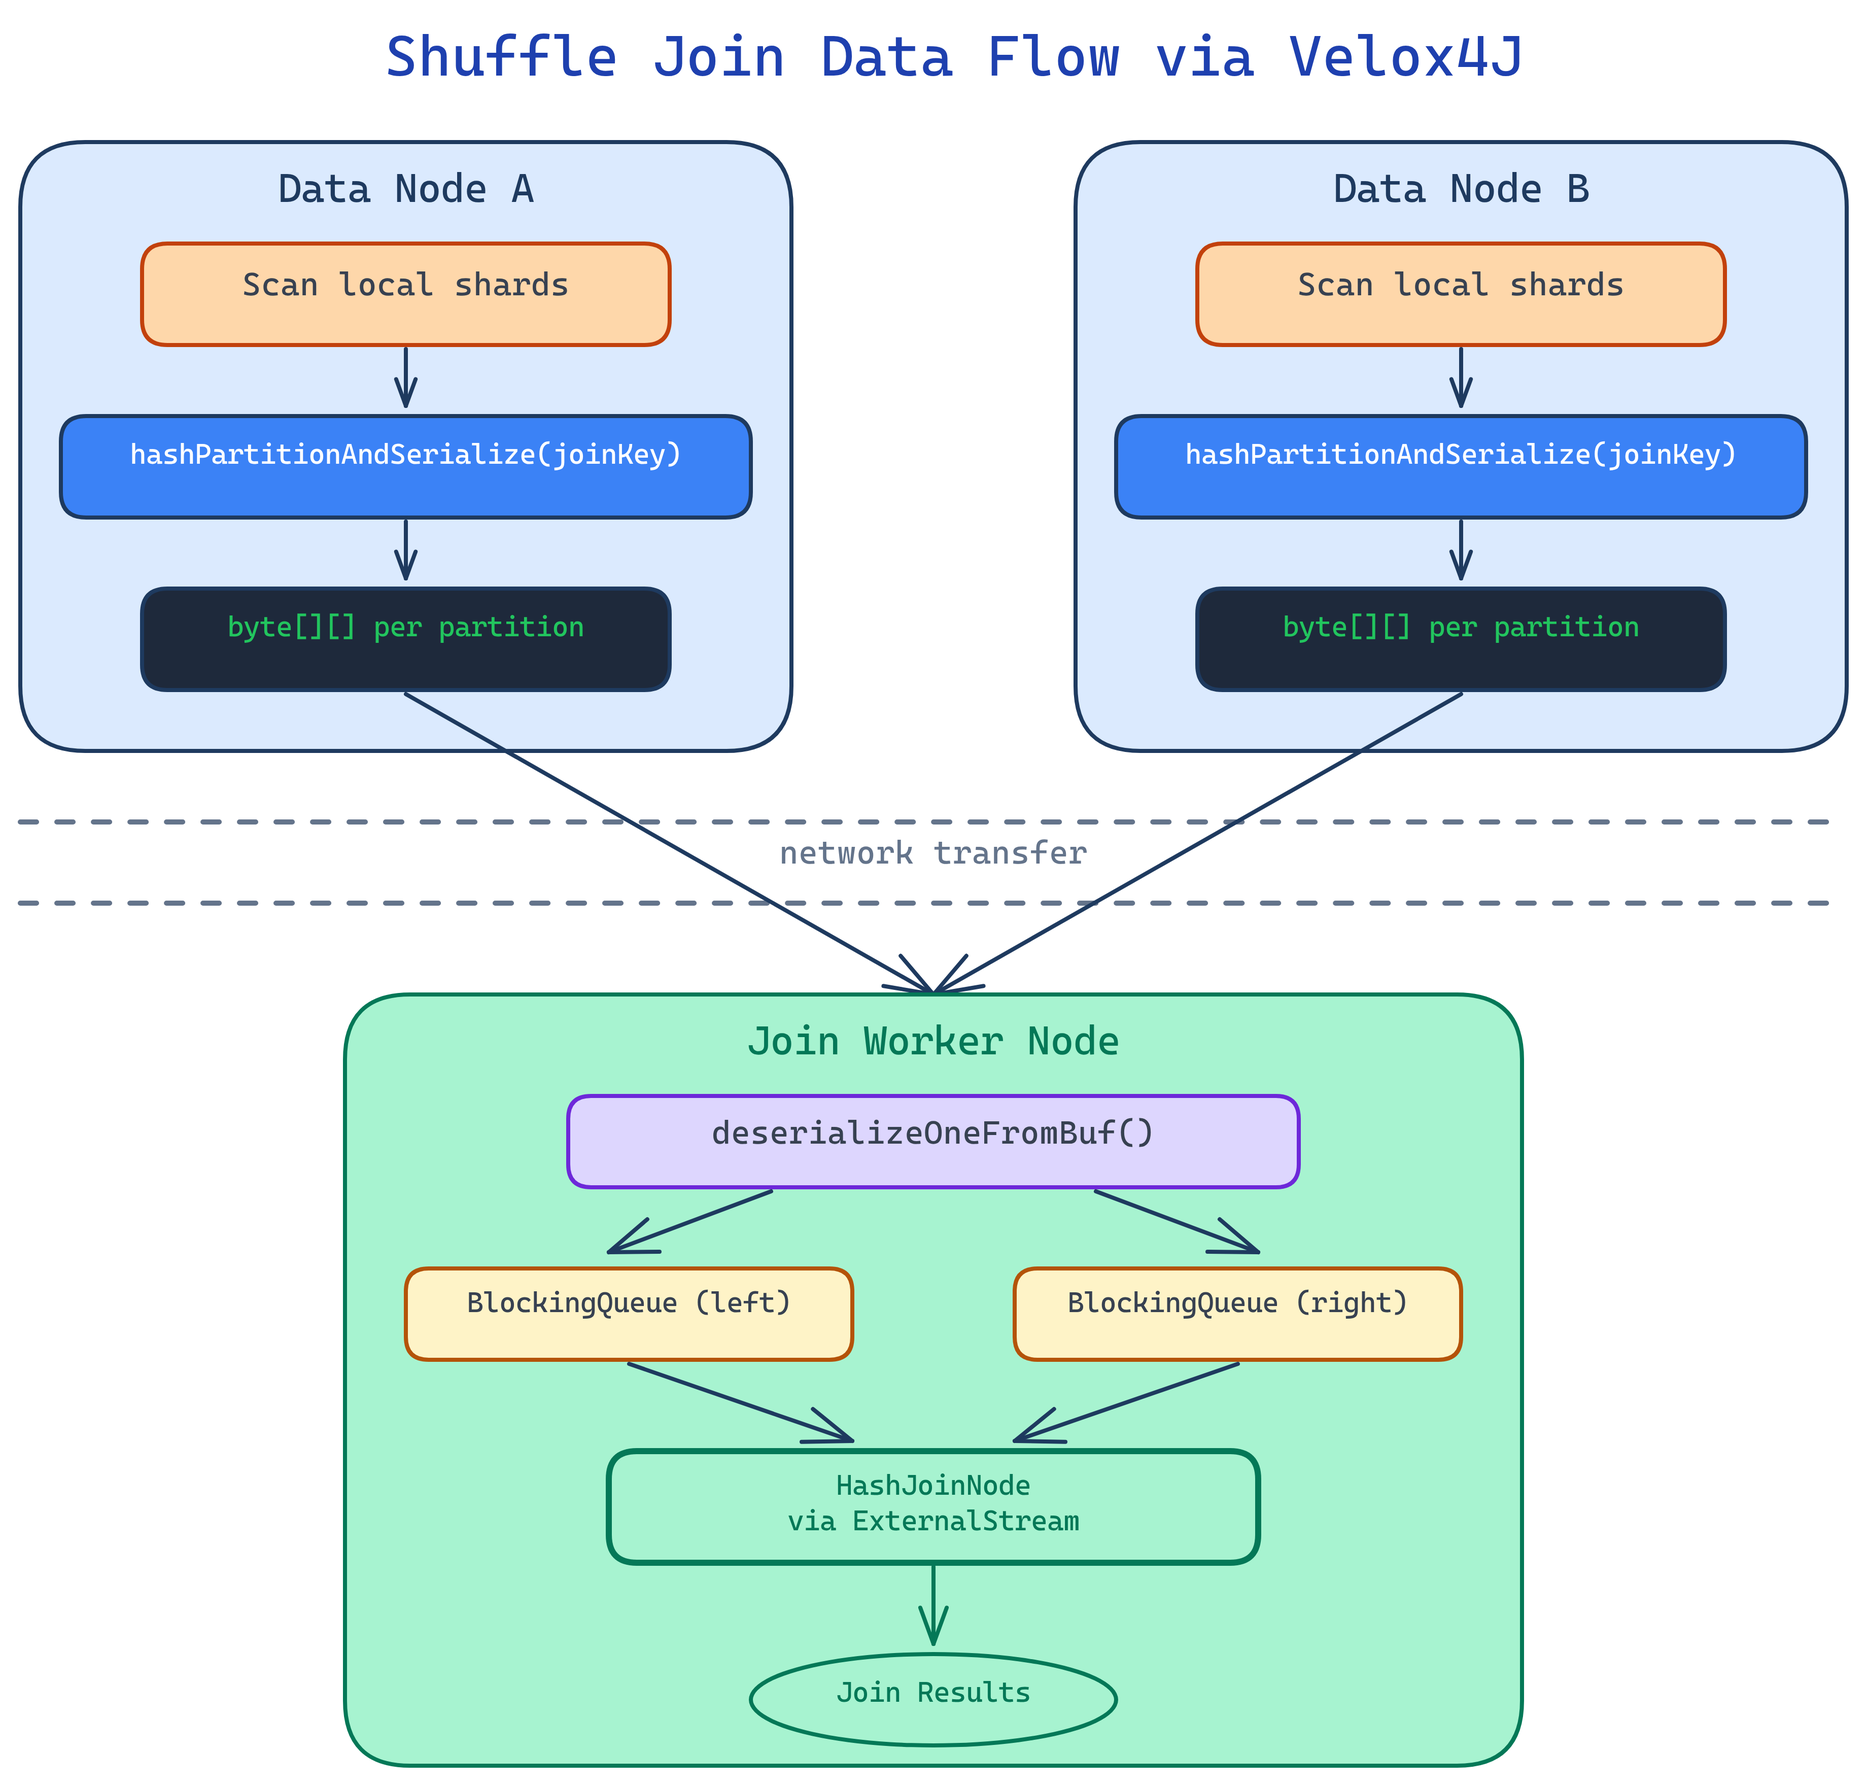
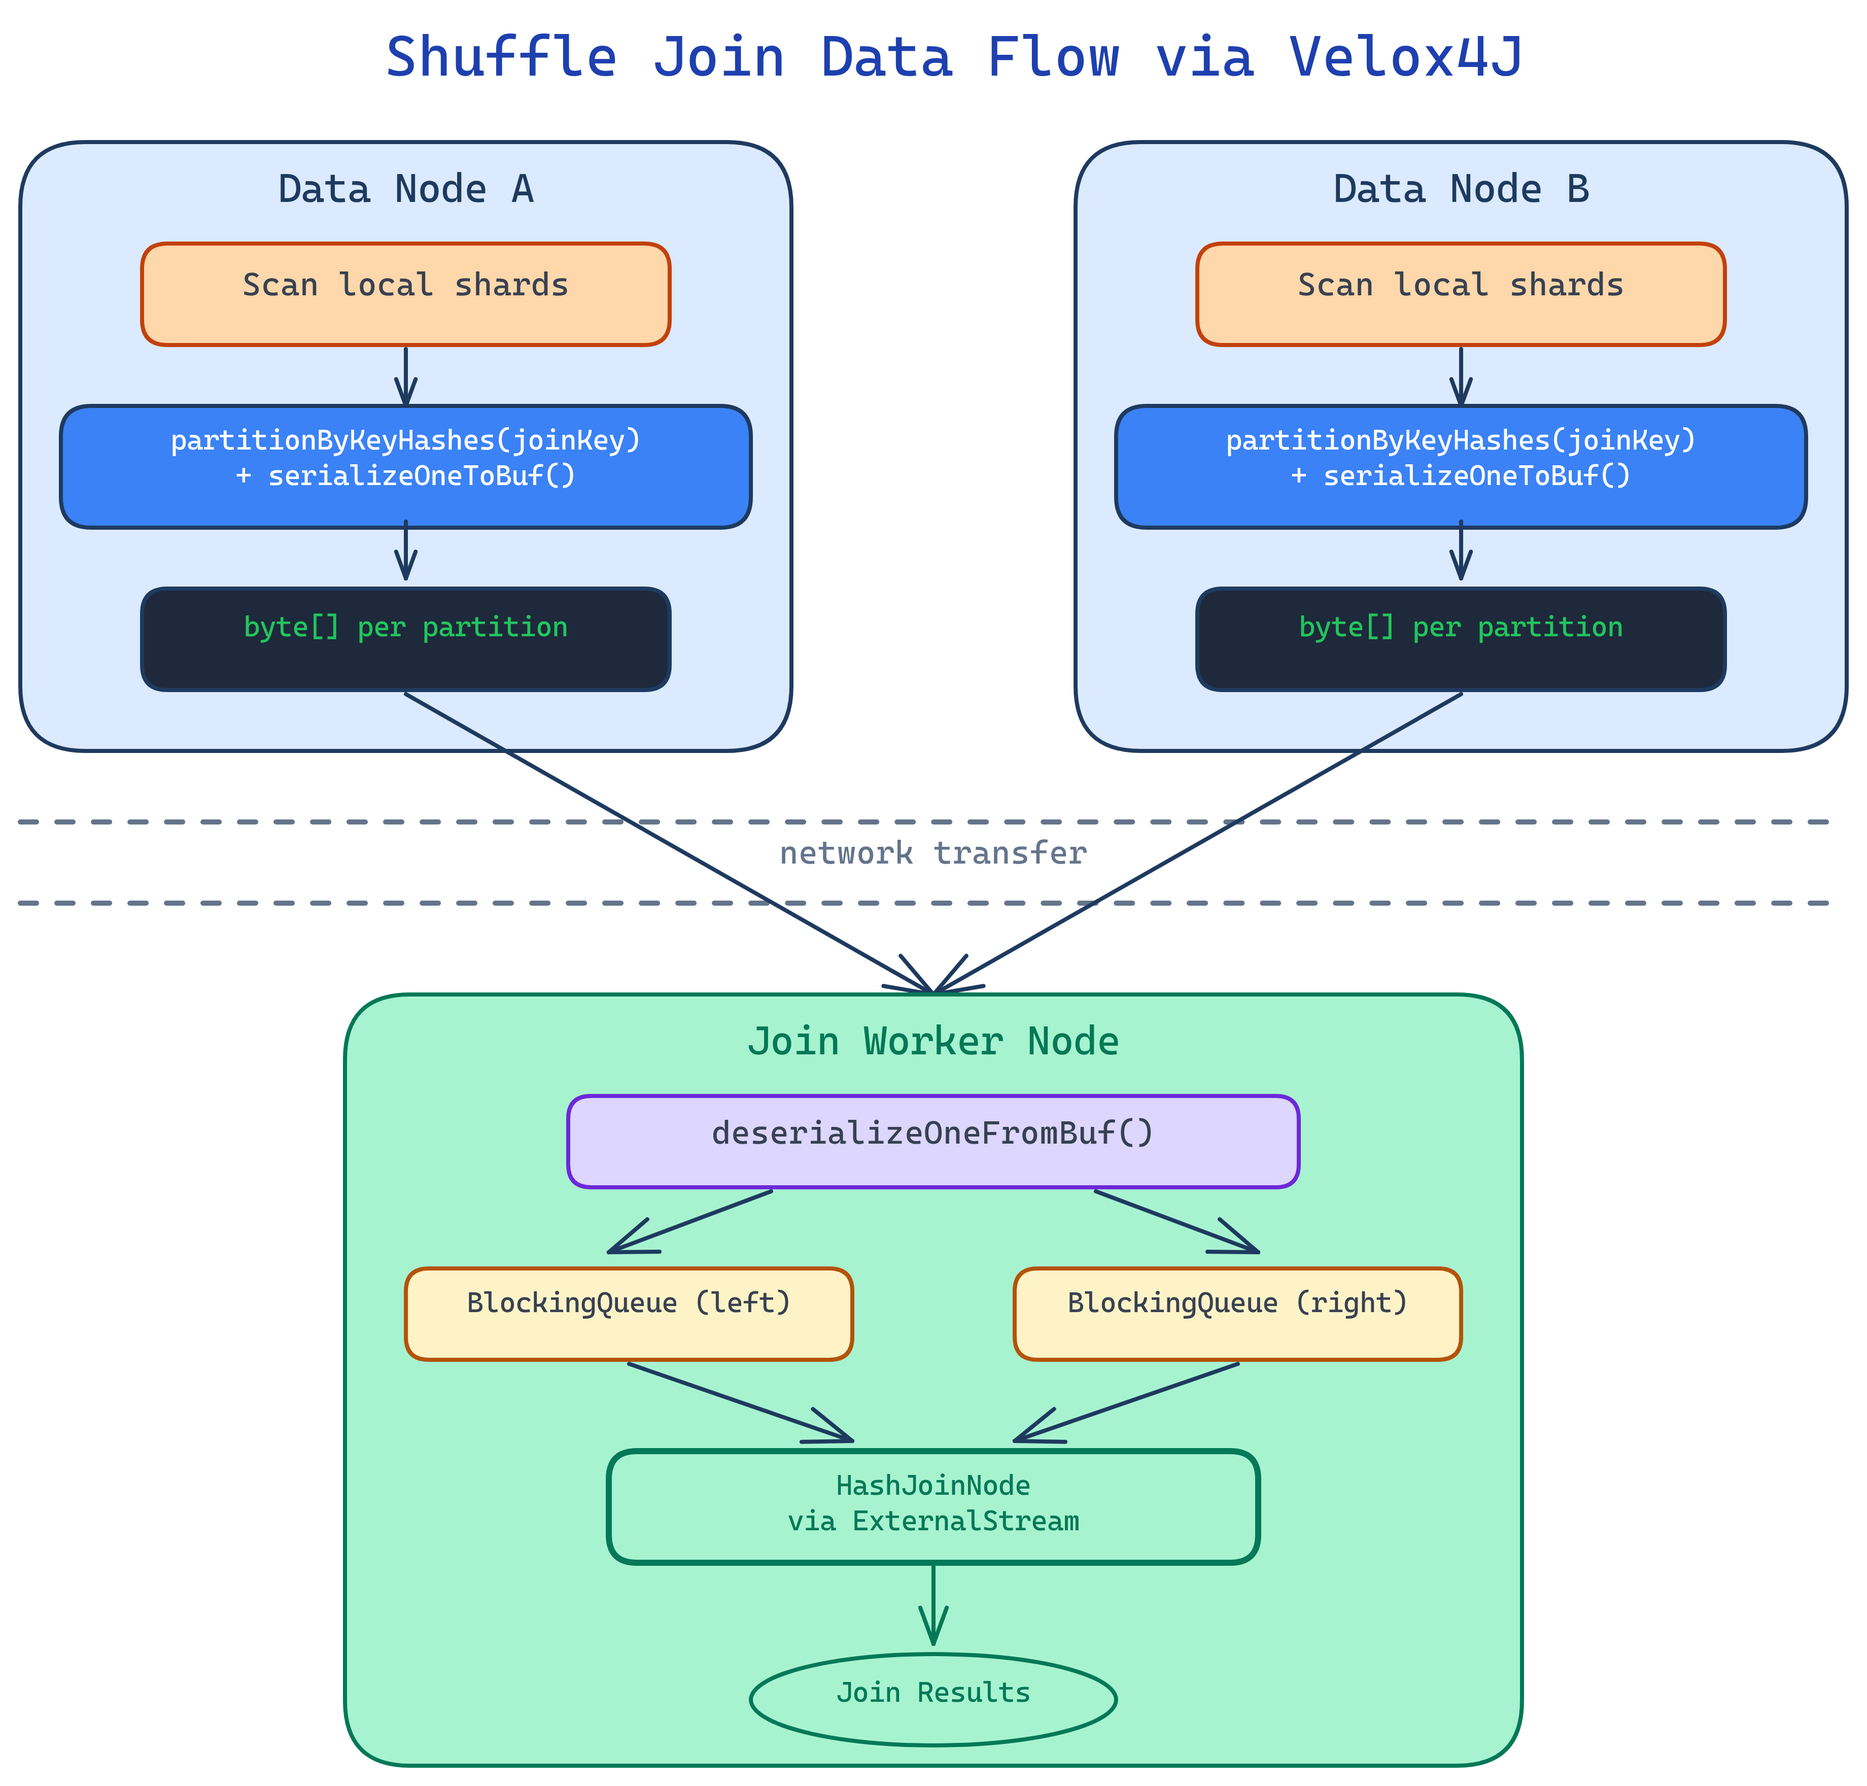
simplify the shuffle-join-flow

diff --git a/docs/lesson-12-joins-and-distribution.md b/docs/lesson-12-joins-and-distribution.md
@@ -10,7 +10,7 @@ After this lesson you should be able to:
 - Describe the full Velox distributed shuffle architecture: PartitionedOutput → OutputBufferManager → ExchangeClient → Exchange
 - Explain why Velox4J cannot support Exchange/PartitionedOutput and how frameworks like Gluten-Flink work around this
 - Design a distributed join strategy using Velox4J as the local execution engine
-- Use `hashPartition()` and `hashPartitionAndSerialize()` for consistent shuffle partitioning
+- Use `partitionByKeyHashes()` for consistent shuffle partitioning
 - Understand lazy vector materialization and when to flatten before serialization
 - Use `LocalPartitionNode` for in-process repartitioning within a Velox plan tree
 
@@ -733,57 +733,55 @@ A key requirement for distributed shuffle is that the **same key always maps to 
 | API | Algorithm | Cross-node consistent? | Use case |
 |-----|-----------|----------------------|----------|
 | `partitionByKeys()` | Hive `PartitionIdGenerator` (discovery-based) | **No** — assigns sequential IDs as it discovers distinct values | Local grouping (e.g., writing to Hive partitions) |
-| `hashPartition()` | Velox `HashPartitionFunction` (hash-based) | **Yes** — deterministic hash of key values | Distributed shuffle |
+| `partitionByKeyHashes()` | Velox `HashPartitionFunction` (hash-based) | **Yes** — deterministic hash of key values | Distributed shuffle |
 
 ```java
 // Hash-partition by join key column (index 2) into 4 partitions
 List<RowVector> partitions = session.rowVectorOps()
-    .hashPartition(rowVector, List.of(2), 4);
+    .partitionByKeyHashes(rowVector, List.of(2), 4);
 // partitions.get(i) is null if no rows hashed to partition i
 ```
 
 **Source:** `src/main/java/org/boostscale/velox4j/data/RowVectors.java`
 
-### Combined partition-and-serialize
+### Partition then serialize
 
-For shuffle send, the framework needs to partition data and serialize each partition for network transfer. The `hashPartitionAndSerialize()` API does both in a **single JNI call**:
+For shuffle send, the framework needs to partition data and serialize each partition for network transfer. Use `partitionByKeyHashes()` to partition, then `BaseVectors.serializeOneToBuf()` to serialize each partition separately:
 
 ```java
-// Partition + serialize in one call — returns byte[][] indexed by partition
-byte[][] serialized = session.rowVectorOps()
-    .hashPartitionAndSerialize(rowVector, List.of(joinKeyIndex), numPartitions);
+// Partition by join key
+List<RowVector> partitions = session.rowVectorOps()
+    .partitionByKeyHashes(rowVector, List.of(joinKeyIndex), numPartitions);
 
-// Send each non-null partition to its target node
-for (int i = 0; i < serialized.length; i++) {
-    if (serialized[i] != null) {
-        sendToNode(targetNodes[i], serialized[i]);  // framework's network layer
+// Serialize and send each non-null partition to its target node
+for (int i = 0; i < partitions.size(); i++) {
+    if (partitions.get(i) != null) {
+        byte[] buf = BaseVectors.serializeOneToBuf(partitions.get(i));
+        sendToNode(targetNodes[i], buf);  // framework's network layer
     }
 }
 ```
-
-This avoids materializing intermediate `RowVector` objects in the `ObjectStore` — the C++ code partitions, wraps, and serializes in one pass.
 
 The serialization uses Velox's native binary format (`VectorSaver`), the same format used by `BaseVectors.serializeOneToBuf()` / `deserializeOneFromBuf()`.
 
 ### The ShuffleWriter C++ abstraction
 
-The `hashPartition()` and `hashPartitionAndSerialize()` JNI functions are thin wrappers over the `ShuffleWriter` class — Velox4J's serial-mode equivalent of Velox's `PartitionedOutput` operator:
+The `partitionByKeyHashes()` JNI function is a thin wrapper over the `ShuffleWriter` class — Velox4J's serial-mode equivalent of Velox's `PartitionedOutput` operator:
 
 ```
 Velox parallel mode:  PartitionedOutput → OutputBufferManager → ExchangeNode
-Velox serial mode:    ShuffleWriter → byte[] via JNI → framework network transport
+Velox serial mode:    ShuffleWriter → RowVector[] via JNI → serialize in Java → framework transport
 In-process:           LocalPartitionNode → LocalExchangeQueue
 ```
 
-`ShuffleWriter` encapsulates the entire partition + serialize pipeline:
+`ShuffleWriter` encapsulates the partition pipeline:
 
 1. **Flatten** lazy columns (via `flattenVector()`)
 2. **Hash** each row to a partition (via `HashPartitionFunction`)
 3. **Index** rows per partition (allocate row index buffers)
 4. **Wrap** each partition as a `RowVector` (via `exec::wrap()`)
-5. **Serialize** each partition (via `saveVector()`) — only for `partitionAndSerialize()`
 
-The class is reusable across batches and independently testable in C++ GTests without JNI.
+Serialization is done separately via `BaseVectors.serializeOneToBuf()`, keeping partitioning and serialization decoupled.
 
 **Source:** `src/main/cpp/main/velox4j/shuffle/ShuffleWriter.h`, `src/main/cpp/main/velox4j/shuffle/ShuffleWriter.cc`
 
@@ -794,16 +792,14 @@ When data is scanned from Parquet via the Hive connector, Velox produces `RowVec
 ```
 Scan Parquet → RowVector with lazy columns
     │
-    ├── hashPartition() → automatically flattens (safe)
-    │
-    ├── hashPartitionAndSerialize() → automatically flattens (safe)
+    ├── partitionByKeyHashes() → automatically flattens (safe)
     │
     ├── BaseVectors.serializeOneToBuf() → does NOT flatten (caller must flatten)
     │
     └── BlockingQueue.put() → does NOT flatten (caller must flatten)
 ```
 
-Both `hashPartition()` and `hashPartitionAndSerialize()` call `flattenVector()` internally to materialize lazy columns before partitioning. But if you use `serializeOneToBuf()` or `BlockingQueue.put()` directly (e.g., for broadcast join), you must flatten first:
+`partitionByKeyHashes()` calls `flattenVector()` internally to materialize lazy columns before partitioning. But if you use `serializeOneToBuf()` or `BlockingQueue.put()` directly (e.g., for broadcast join), you must flatten first:
 
 ```java
 // WRONG — lazy columns cause crash in downstream HashBuild
@@ -840,11 +836,12 @@ Iterator<RowVector> localData = veloxExecutor.executeScan(scanPlan, shards);
 // Hash-partition and serialize for shuffle
 while (localData.hasNext()) {
     RowVector batch = localData.next();
-    byte[][] partitions = session.rowVectorOps()
-        .hashPartitionAndSerialize(batch, List.of(joinKeyIndex), numPartitions);
-    for (int i = 0; i < partitions.length; i++) {
-        if (partitions[i] != null) {
-            sendToNode(targetNodes[i], partitions[i]);  // framework transport
+    List<RowVector> partitions = session.rowVectorOps()
+        .partitionByKeyHashes(batch, List.of(joinKeyIndex), numPartitions);
+    for (int i = 0; i < partitions.size(); i++) {
+        if (partitions.get(i) != null) {
+            byte[] buf = BaseVectors.serializeOneToBuf(partitions.get(i));
+            sendToNode(targetNodes[i], buf);  // framework transport
         }
     }
 }
@@ -969,17 +966,17 @@ LocalPartitionNode localPartition = new LocalPartitionNode(
 
 ### Three repartitioning mechanisms compared
 
-| | `LocalPartitionNode` | `ShuffleWriter` / `hashPartitionAndSerialize()` | Velox `PartitionedOutput` |
+| | `LocalPartitionNode` | `partitionByKeyHashes()` + `serializeOneToBuf()` | Velox `PartitionedOutput` |
 |---|---|---|---|
-| **Where** | Inside the Velox plan tree | C++ class called via JNI | Inside Velox plan tree (parallel mode only) |
+| **Where** | Inside the Velox plan tree | Java API over `ShuffleWriter` C++ class | Inside Velox plan tree (parallel mode only) |
 | **Execution mode** | Serial ✅ | Serial ✅ | Parallel only ❌ |
-| **Serialization** | None — vectors stay in `LocalExchangeQueue` | Yes — `saveVector()` to `byte[]` | Yes — to `OutputBufferManager` |
+| **Serialization** | None — vectors stay in `LocalExchangeQueue` | Yes — `serializeOneToBuf()` to `byte[]` | Yes — to `OutputBufferManager` |
 | **Network transfer** | No — in-process only | Yes — `byte[]` returned to Java for framework transport | Yes — via `ExchangeSource` (HTTP in Prestissimo) |
-| **Lazy vectors** | Handled by Velox internally | `ShuffleWriter` flattens automatically | Handled by Velox internally |
+| **Lazy vectors** | Handled by Velox internally | `partitionByKeyHashes()` flattens automatically | Handled by Velox internally |
 | **Backpressure** | Built-in via `LocalExchangeMemoryManager` | Manual — framework manages buffering | Built-in via `OutputBufferManager` |
 | **Use case** | Repartition within a single Velox task | Cross-node shuffle for MPP engines using serial mode | Cross-node shuffle in Presto/Prestissimo |
 
-`LocalPartitionNode` and `ShuffleWriter` are complementary — use `LocalPartitionNode` when downstream consumers are Velox operators in the same plan, use `ShuffleWriter` when data must cross the network.
+`LocalPartitionNode` and `partitionByKeyHashes()` are complementary — use `LocalPartitionNode` when downstream consumers are Velox operators in the same plan, use `partitionByKeyHashes()` when data must cross the network.
 
 ### Example: join with local repartitioning
 
@@ -1086,13 +1083,13 @@ For multi-way joins, each `HashJoinNode` has exactly 2 sources. Nested joins for
 
 7. **Exchange and PartitionedOutput are blocked in serial mode** because `DriverFactory::supportsSerialExecution()` returns false when either is present. This is fundamental — these operators are async sinks/sources incompatible with the pull-based `Task::next()` API.
 
-8. **Frameworks handle shuffle externally** using Velox4J's shuffle primitives. The `ShuffleWriter` C++ class (exposed via `hashPartition()` and `hashPartitionAndSerialize()` JNI APIs) is the serial-mode equivalent of Velox's `PartitionedOutput` — it handles flatten, hash, wrap, and serialize in a single abstraction. `ExternalStream` + `BlockingQueue` feeds shuffled data into local joins.
+8. **Frameworks handle shuffle externally** using Velox4J's shuffle primitives. `partitionByKeyHashes()` (backed by the `ShuffleWriter` C++ class) handles flatten, hash, and wrap. Serialization is done separately via `BaseVectors.serializeOneToBuf()`. `ExternalStream` + `BlockingQueue` feeds shuffled data into local joins.
 
-9. **`hashPartition()` uses `HashPartitionFunction`** (deterministic hash), not `PartitionIdGenerator` (discovery-based). Same key → same partition on every node — a hard requirement for distributed shuffle.
+9. **`partitionByKeyHashes()` uses `HashPartitionFunction`** (deterministic hash), not `PartitionIdGenerator` (discovery-based). Same key → same partition on every node — a hard requirement for distributed shuffle.
 
-10. **Lazy vectors must be flattened** before serialization or feeding into a new plan. `hashPartition()` and `hashPartitionAndSerialize()` flatten automatically. Direct use of `serializeOneToBuf()` or `BlockingQueue.put()` requires calling `flattenedVector()` first on data from Parquet scans.
+10. **Lazy vectors must be flattened** before serialization or feeding into a new plan. `partitionByKeyHashes()` flattens automatically. Direct use of `serializeOneToBuf()` or `BlockingQueue.put()` requires calling `flattenedVector()` first on data from Parquet scans.
 
-11. **`LocalPartitionNode` enables in-process repartitioning** directly in the Velox plan tree. Unlike `hashPartitionAndSerialize()` (which is for cross-node shuffle), `LocalPartitionNode` uses `LocalExchangeQueue` — no serialization, no manual lazy vector handling, with built-in backpressure. Supports three modes via `PartitionFunctionSpec`: hash, gather, and round-robin.
+11. **`LocalPartitionNode` enables in-process repartitioning** directly in the Velox plan tree. Unlike `partitionByKeyHashes()` (which is for cross-node shuffle), `LocalPartitionNode` uses `LocalExchangeQueue` — no serialization, no manual lazy vector handling, with built-in backpressure. Supports three modes via `PartitionFunctionSpec`: hash, gather, and round-robin.
 
 ---
 
@@ -1117,13 +1114,13 @@ For multi-way joins, each `HashJoinNode` has exactly 2 sources. Nested joins for
 
 6. **Add MergeJoinNode**: Based on sections 12.5 and 4.12, list every file you'd create or modify to add `MergeJoinNode` to Velox4J. Write the Java class, the registration call, and a serde test.
 
-7. **Shuffle consistency**: Two nodes each scan different halves of a table and call `hashPartitionAndSerialize(data, List.of(0), 4)`. Will row with key=42 always land in the same partition index on both nodes? Why? What would happen if they used `partitionByKeys()` instead?
+7. **Shuffle consistency**: Two nodes each scan different halves of a table and call `partitionByKeyHashes(data, List.of(0), 4)`. Will row with key=42 always land in the same partition index on both nodes? Why? What would happen if they used `partitionByKeys()` instead?
 
 8. **Lazy vector trap**: You scan a Parquet file, get a `RowVector`, serialize it with `BaseVectors.serializeOneToBuf(batch)`, deserialize with `deserializeOneFromBuf(buf)`, and feed it into a `BlockingQueue` for a HashJoin. It crashes with "lazy vector should not have been loaded." Where is the bug and how do you fix it?
 
 9. **Broadcast vs shuffle**: An MPP engine joins a 100M-row `orders` table with a 50-row `regions` table. Compare the network bytes transferred for broadcast join vs shuffle join with 4 partitions. Which should the query planner choose?
 
-10. **LocalPartitionNode plan**: Write the Java code to build a plan that scans two ExternalStream sources, repartitions both by column 0 using `LocalPartitionNode` with `HashPartitionFunctionSpec`, and joins them with `HashJoinNode`. Compare this to the equivalent plan using `hashPartitionAndSerialize()` + `BlockingQueue` — which has fewer JNI calls?
+10. **LocalPartitionNode plan**: Write the Java code to build a plan that scans two ExternalStream sources, repartitions both by column 0 using `LocalPartitionNode` with `HashPartitionFunctionSpec`, and joins them with `HashJoinNode`. Compare this to the equivalent plan using `partitionByKeyHashes()` + `serializeOneToBuf()` + `BlockingQueue` — which has fewer JNI calls?
 
 ---
 
